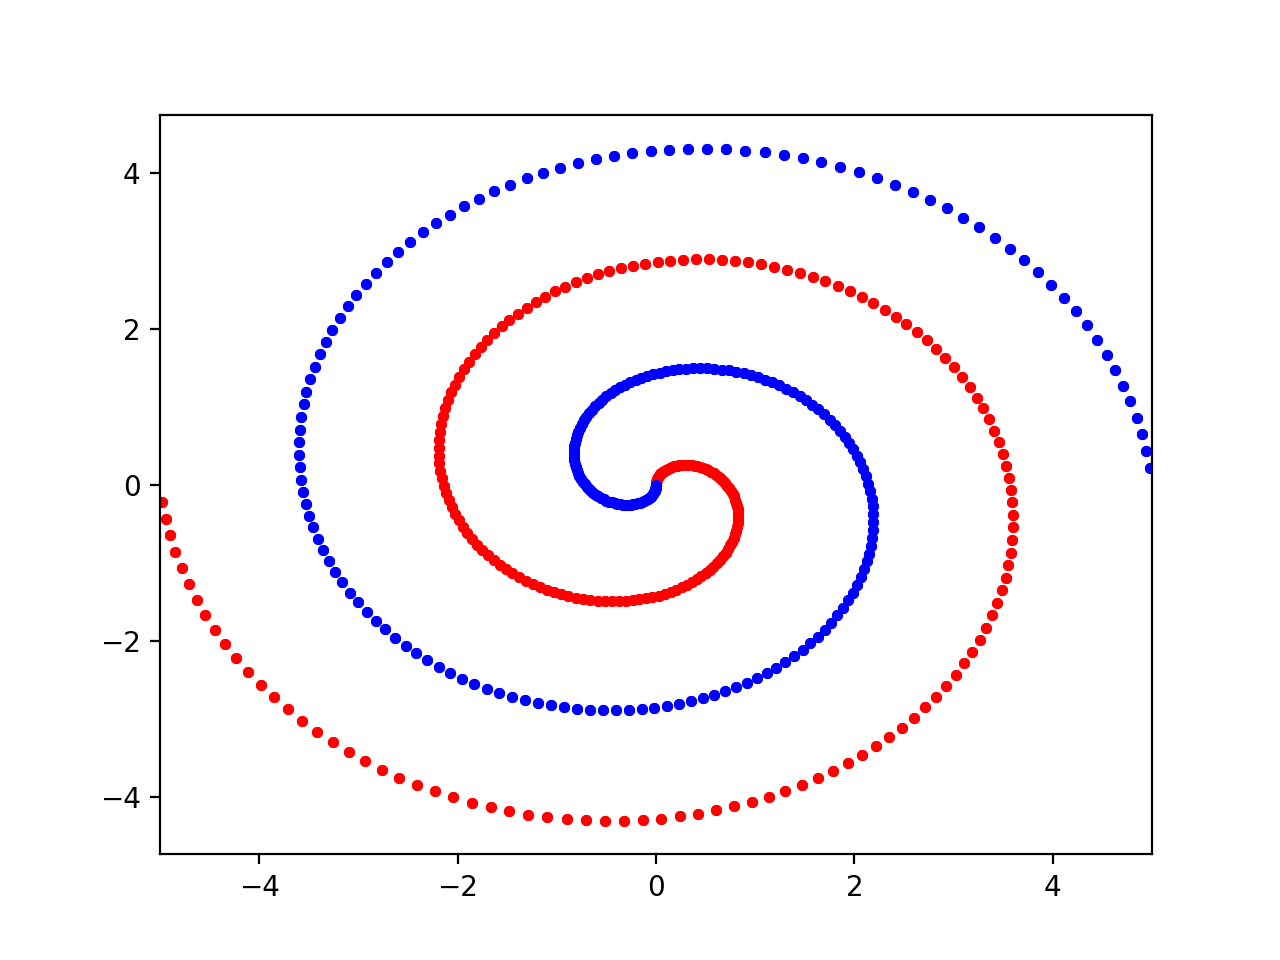
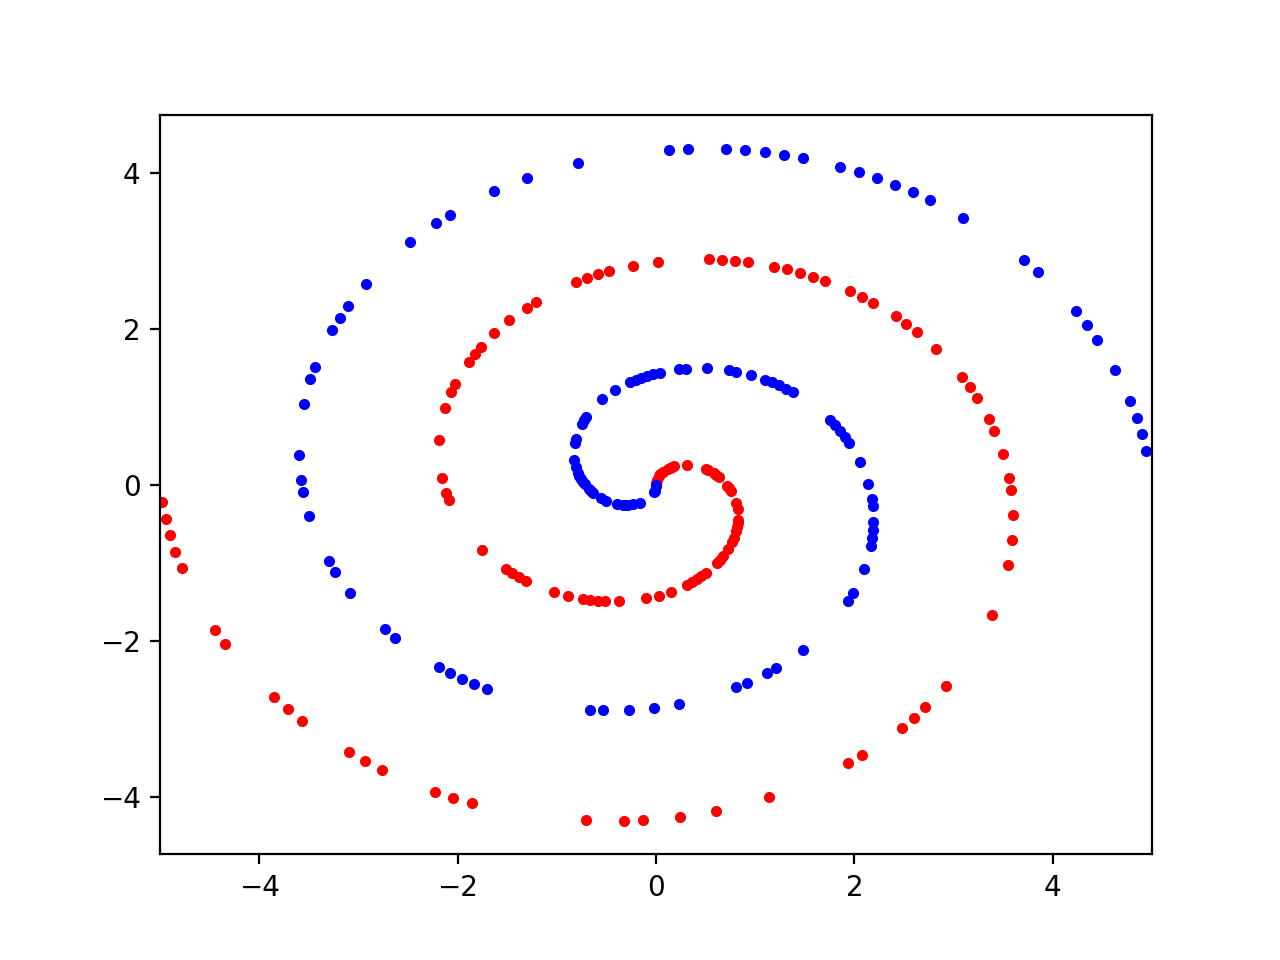
Ready

diff --git a/Assignment-2/params.py b/Assignment-2/params.py
@@ -54,3 +54,4 @@ def showout(filename):
         printout(f'Saved Figure as "[{total_imgs}]{filename}"')
         plt.savefig(DIREC + '/' + f'[{total_imgs}]{filename}')
         plt.show(block=False)
+        plt.clf()
